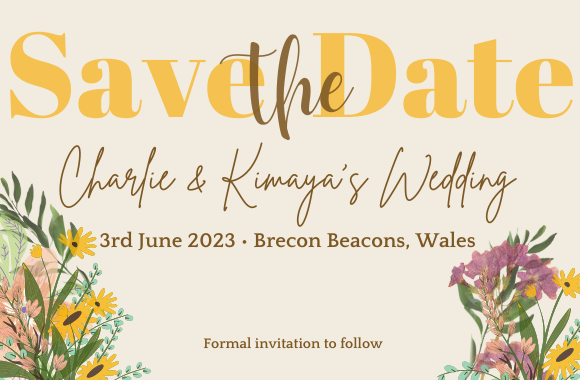
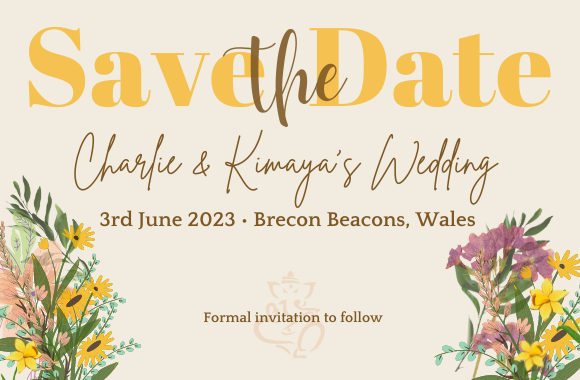
adding hindi translation

diff --git a/index.html b/index.html
@@ -35,13 +35,26 @@
     <div class="mail">
         <div class="cover"></div>
         <div class="letter">
-          <img src="images/save_the_date.png" width=580px height=380px>
+          <img src="images/save_the_date.png" width=580px height=380px id="save_the_date">
           <h4 id="countdown" style="font-size: 16px"></h4>
+          <button type="button" onclick=ChangeImage() id="change_language" style='position: absolute; top: 85%; left: 50%; transform: translate(-50%,50%); font-size:16px; color:rgba(0,0,0,.5);'>Hindi</button>
         </div>
     </div>
 </div>
 
 <script>
+function ChangeImage() {
+    var src
+    src = document.getElementById("save_the_date").src
+    if (src.includes("hindi.png")) {
+        document.getElementById("save_the_date").src = "images/save_the_date.png"
+        document.getElementById("change_language").innerHTML = "Hindi"
+    } else {
+        document.getElementById("save_the_date").src = "images/save_the_date_hindi.png"
+        document.getElementById("change_language").innerHTML = "English"
+    }
+}
+
 function Redirect(){
     setTimeout(function() {window.alert("Incorrect password")}, 100);
     window.location = './' + document.getElementById('name').value + '/index.html'

diff --git a/css/savethedate.css b/css/savethedate.css
@@ -112,7 +112,7 @@
 
 .letter h4{
     position: absolute;
-    top: 73%;
+    top: 65%;
     left: 50%;
     width: 500px;
     transform: translate(-15%,-50%);
